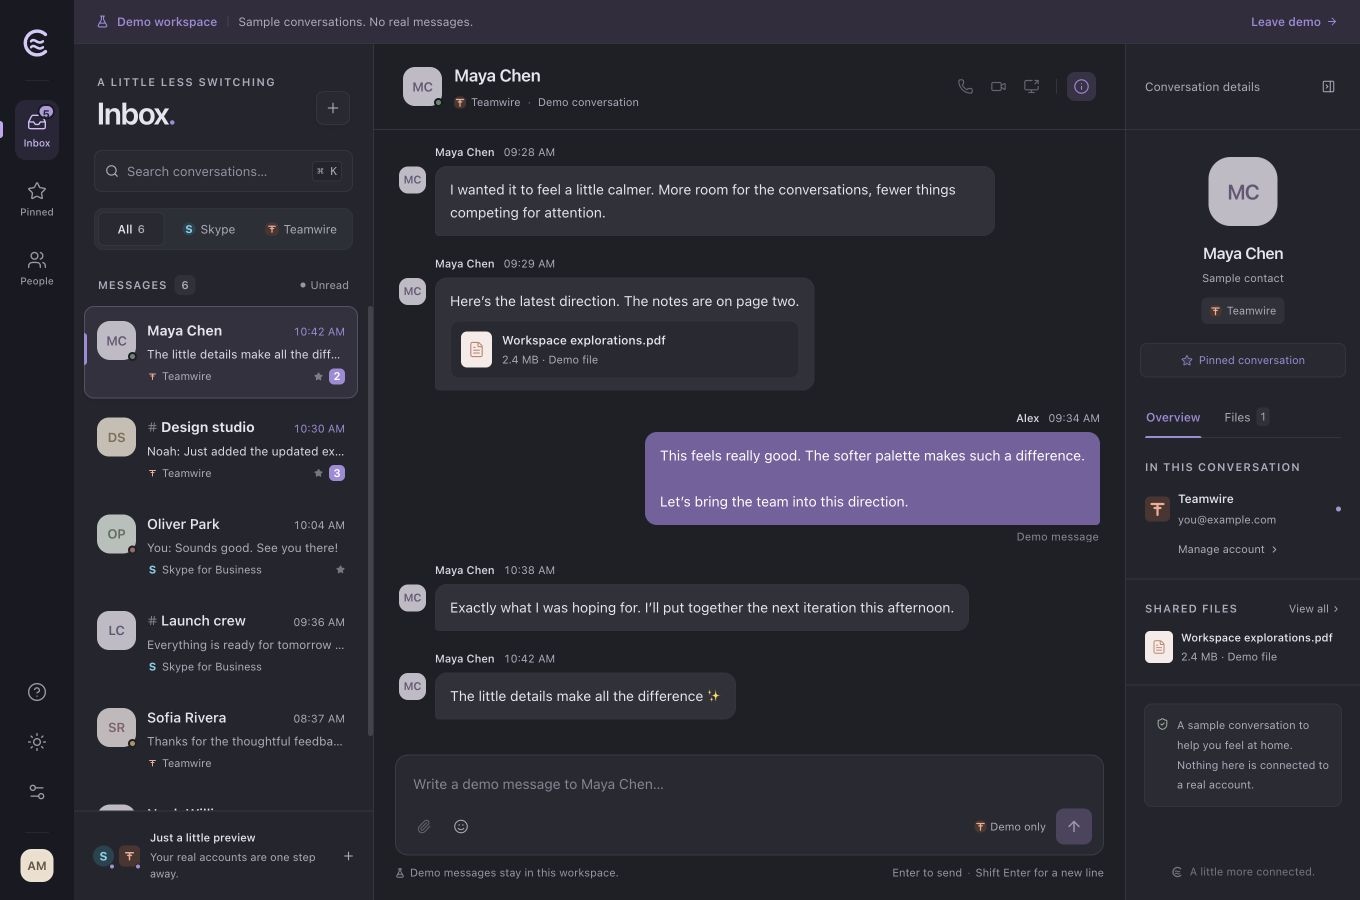
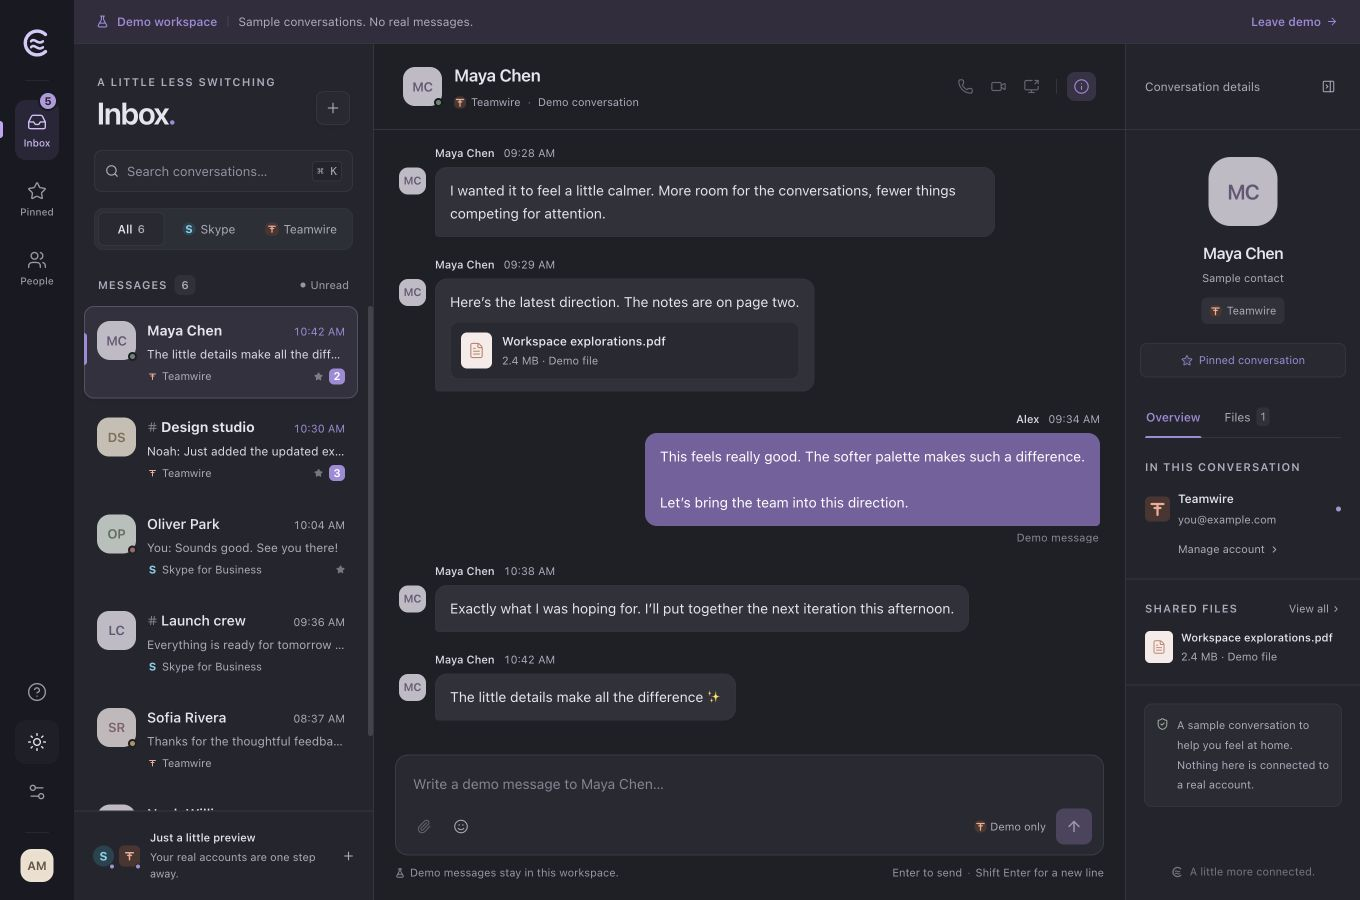
Keep Inbox unread counts fully visible
Size the badge for its text line and keep it clear of the rail icon. Extend the existing readability regression to cover text bounds and refresh README screenshots.

diff --git a/tests/e2e/ux.spec.ts b/tests/e2e/ux.spec.ts
@@ -247,6 +247,42 @@ test('message text and the composer remain readable at the configured viewport',
     const fontSize = await element.evaluate(node => Number.parseFloat(getComputedStyle(node).fontSize));
     expect(fontSize, `${description} must remain at least 14px at ${page.viewportSize()?.width}px`).toBeGreaterThanOrEqual(14);
   }
+  const badge = page.locator('.rail-navigation .rail-unread');
+  await expect(badge).toBeVisible();
+  const bounds = await badge.evaluate(node => {
+    const rect = ({ top, right, bottom, left }: DOMRect) => ({ top, right, bottom, left });
+    const badgeRect = node.getBoundingClientRect();
+    const style = getComputedStyle(node);
+    const text = document.createRange();
+    text.selectNodeContents(node);
+    const button = node.parentElement!;
+    return {
+      text: rect(text.getBoundingClientRect()),
+      badgeContent: {
+        top: badgeRect.top + Number.parseFloat(style.borderTopWidth),
+        right: badgeRect.right - Number.parseFloat(style.borderRightWidth),
+        bottom: badgeRect.bottom - Number.parseFloat(style.borderBottomWidth),
+        left: badgeRect.left + Number.parseFloat(style.borderLeftWidth),
+      },
+      badge: rect(badgeRect),
+      rail: rect(node.closest('.app-rail')!.getBoundingClientRect()),
+      icon: rect(button.querySelector('svg')!.getBoundingClientRect()),
+      label: rect(button.querySelector('.rail-label')!.getBoundingClientRect()),
+      button: rect(button.getBoundingClientRect()),
+    };
+  });
+  for (const [description, inner, outer] of [
+    ['unread number inside its pill', bounds.text, bounds.badgeContent],
+    ['unread badge inside the rail', bounds.badge, bounds.rail],
+    ['Inbox icon inside its button', bounds.icon, bounds.button],
+    ['Inbox label inside its button', bounds.label, bounds.button],
+  ] as const) {
+    expect(inner.top, `${description}: top`).toBeGreaterThanOrEqual(outer.top);
+    expect(inner.right, `${description}: right`).toBeLessThanOrEqual(outer.right);
+    expect(inner.bottom, `${description}: bottom`).toBeLessThanOrEqual(outer.bottom);
+    expect(inner.left, `${description}: left`).toBeGreaterThanOrEqual(outer.left);
+  }
+  expect(bounds.badge.bottom, 'The unread badge must not cover the Inbox icon').toBeLessThanOrEqual(bounds.icon.top);
 });
 
 test('search shortcut reveals the inbox when a narrow conversation is open', async ({ page }) => {

diff --git a/src/styles.css b/src/styles.css
@@ -55,7 +55,7 @@ button { -webkit-app-region: no-drag; }
 .rail-button:hover { color: #e7e0f5; background: #ffffff07; }
 .rail-button.is-active { background: #8e76c524; color: #d4bdfa; }
 .rail-active-mark { position: absolute; left: -15px; top: 14px; width: 3px; height: 17px; border-radius: 0 3px 3px 0; background: #c1a6f3; }
-.rail-unread { position: absolute; right: 4px; top: 4px; display: grid; place-items: center; min-width: 15px; height: 15px; padding: 0 3px; border: 2px solid var(--rail); border-radius: 99px; background: #b29adf; color: #292134; font-size: 11px; font-weight: 750; }
+.rail-unread { position: absolute; right: 1px; top: -9px; display: grid; place-items: center; min-width: 20px; min-height: 20px; padding: 2px 4px; border: 2px solid var(--rail); border-radius: 99px; background: #b29adf; color: #292134; font-size: 11px; font-weight: 750; line-height: 1; font-variant-numeric: tabular-nums; white-space: nowrap; }
 .rail-bottom { margin-top: auto; gap: 6px; }
 .rail-bottom .rail-separator { margin: 12px 0 10px; }
 .current-user { width: 33px; height: 33px; border-radius: 11px; background: #eddfcd; color: #675346; font-size: 12px; font-weight: 650; border: 3px solid #ffffff12; }
